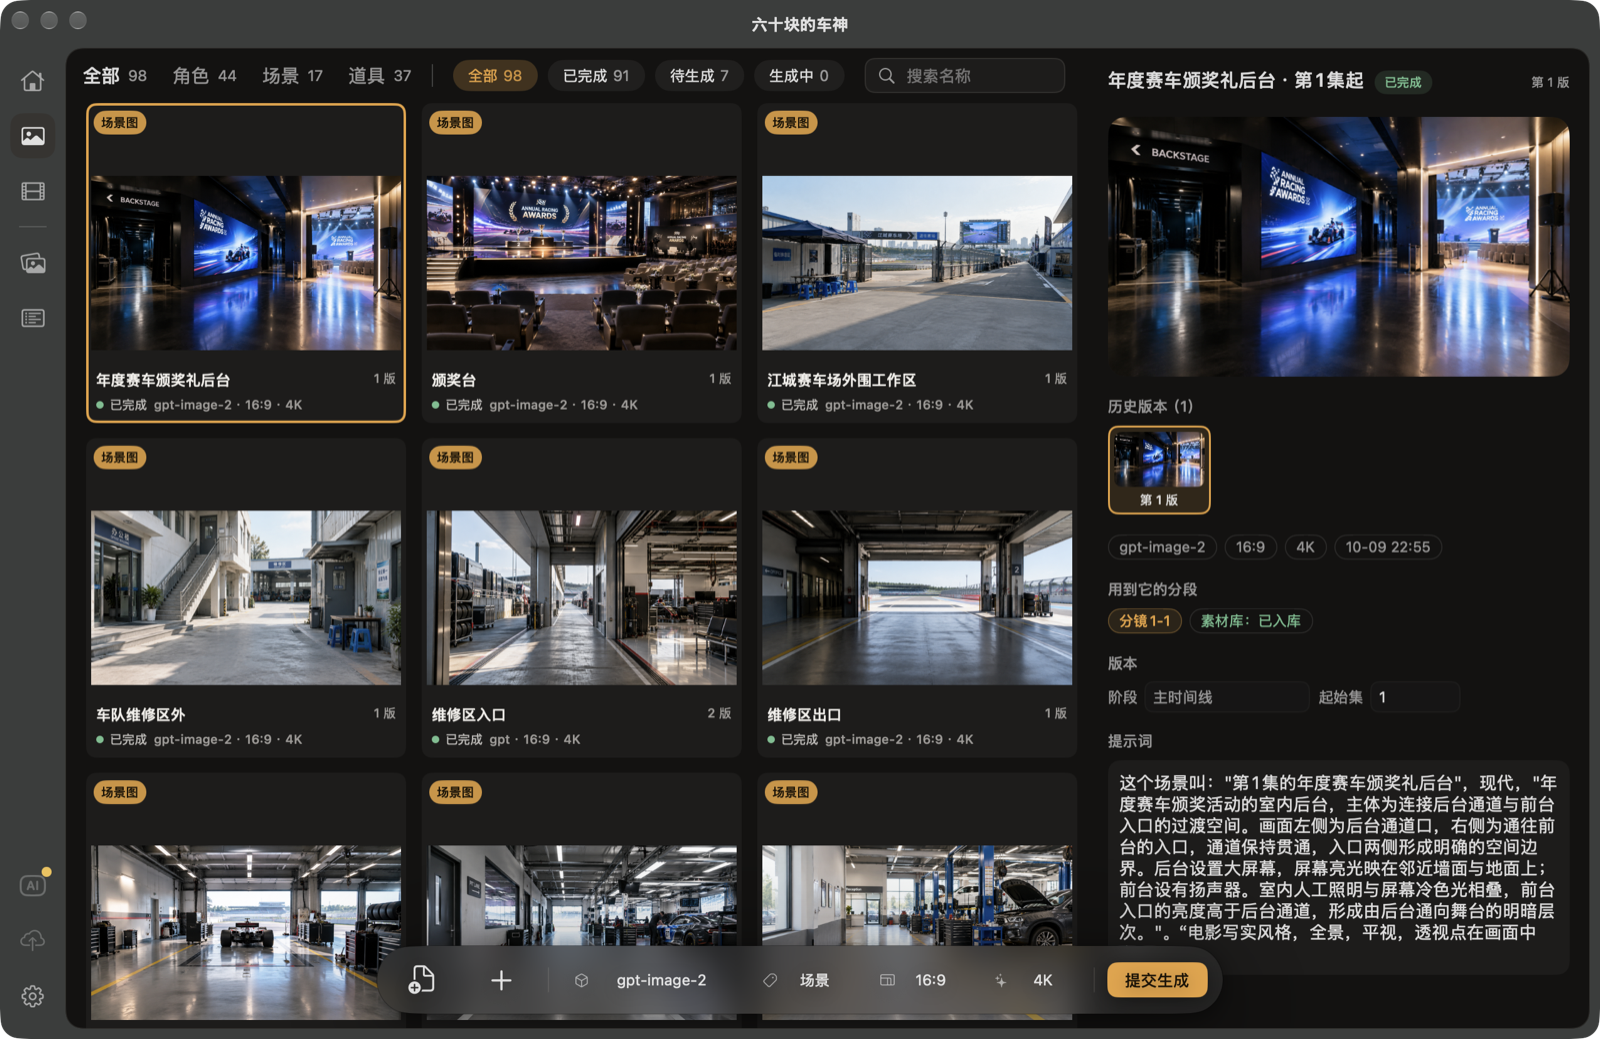
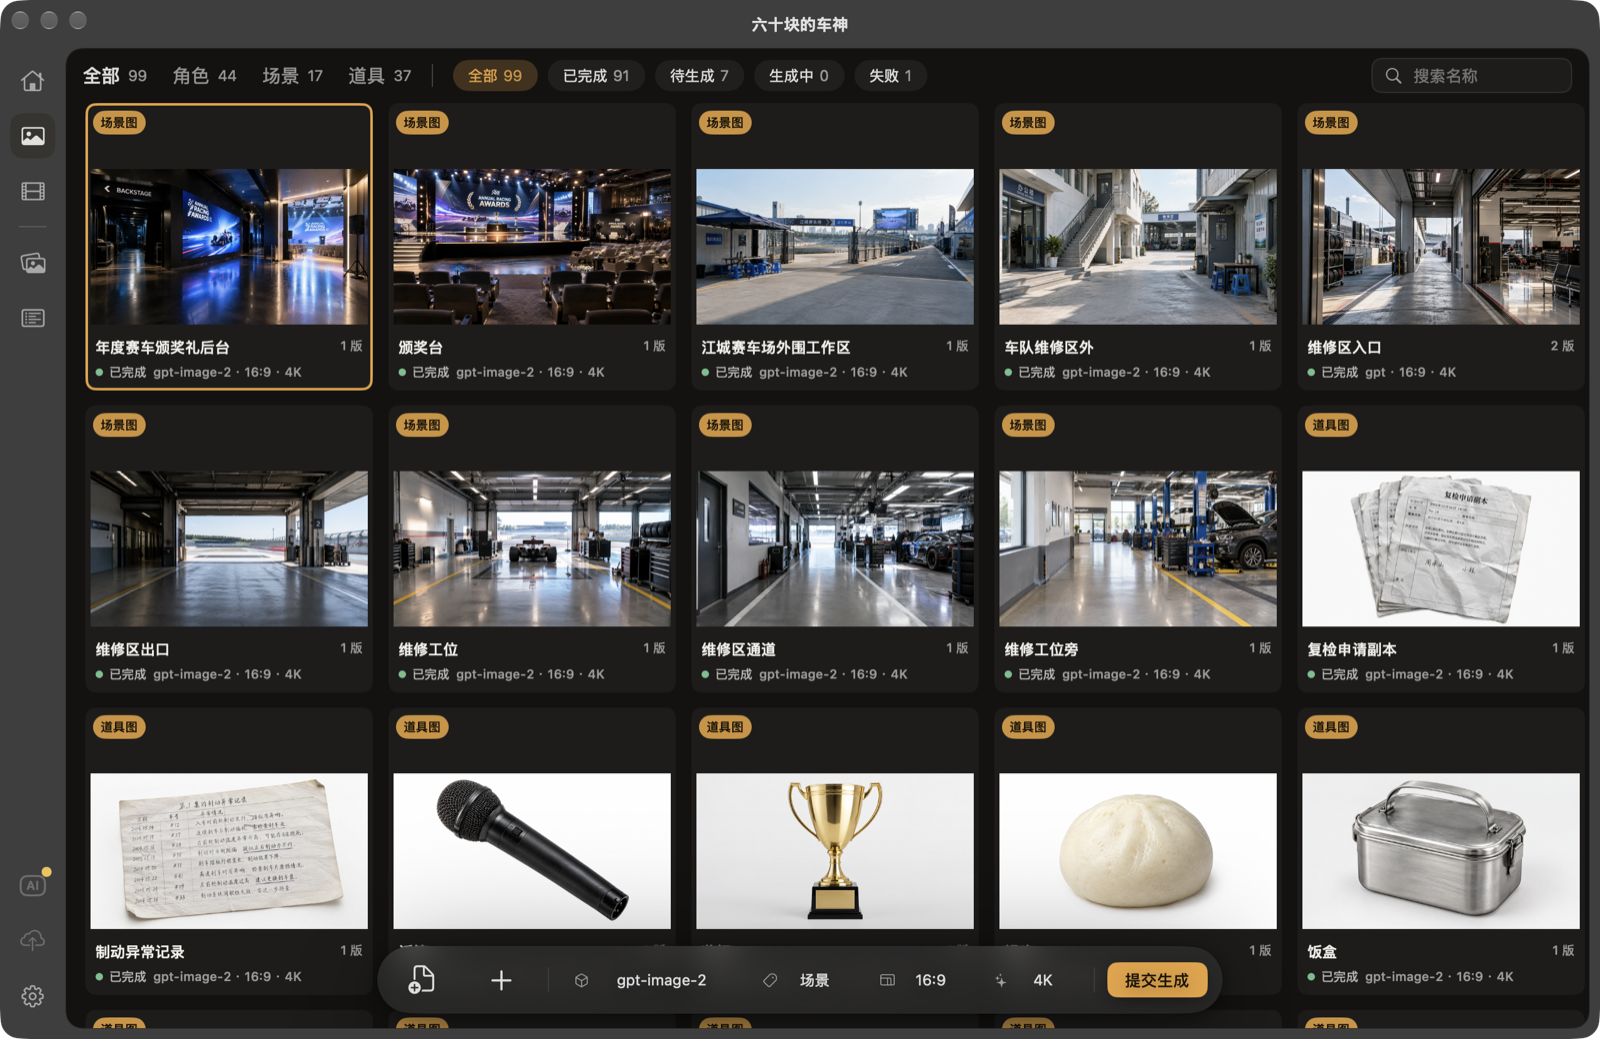
v2.1.58：角色卡绑音色、单击开弹窗去掉右边详情；README 更新截图

diff --git a/README.md b/README.md
@@ -13,8 +13,8 @@ https://github.com/user-attachments/assets/a47bf840-6f4b-4464-ade7-03aff6a31951
 | 段落详情：分镜提示词 + 本段剧情 | 素材卡：角色 / 场景 / 道具 |
 |---|---|
 | ![段落详情](docs/screenshots/segment-detail.png) | ![素材卡](docs/screenshots/image-cards.png) |
-
-![主页](docs/screenshots/home.png)
+| **素材卡编辑：提示词、历史版本、绑定音色** | **主页** |
+| ![素材卡编辑](docs/screenshots/image-editor.png) | ![主页](docs/screenshots/home.png) |
 
 > 截图来自作者用本软件制作的短剧《六十块的车神》等项目。
 
@@ -22,7 +22,7 @@ https://github.com/user-attachments/assets/a47bf840-6f4b-4464-ade7-03aff6a31951
 
 - **剧本流水线**：AI 分集 → 时长分割（如每段 15 / 30 秒）→ 分段命名 → 推理分镜 → 提取素材（角色、场景、道具）。每一步的提示词都能在设置里改。
 - **工作台**：按集、按段看每一段走到了哪一步（待命名、待推理、待出图、待生成视频……），点进某一段可以改提示词、挂素材、看历史版本。
-- **素材与生图**：提取出的素材自动建成生图卡；跨集复用同一素材，提取时会和已有素材对账（沿用 / 新建 / 形态变化 / 待确认），不会重复建卡。
+- **素材与生图**：提取出的素材自动建成生图卡；跨集复用同一素材，提取时会和已有素材对账（沿用 / 新建 / 形态变化 / 待确认），不会重复建卡。单击素材卡就是编辑弹窗：提示词、历史版本、用到它的分段都在里面；角色卡还能绑音色（一段音频或一句文字描述），挂到分镜上时音色跟着进分镜提示词（参考音频要视频渠道支持；开源版自带的 OpenAI / New API 两种渠道不收参考音频，只用文字描述）。
 - **生视频**：每一段带着挂好的参考图（以及参考视频、音频）提交给视频服务商；每次提交都是新的一版，失败的版本也保留，可以改了再交。
 - **服务商接入**：生图、生视频渠道支持 OpenAI 规范和 New API 两种接入规范；文字流程可接 OpenAI 兼容的接口（如 DeepSeek），支持流式接收。
 - **外部智能体接力**：文字流程可以不走软件里的 API，而是把请求放进本机收件目录，由 Codex 等外部智能体回答。配套的自动化技能在 [`skills/xipi-automation`](skills/xipi-automation)。
@@ -106,7 +106,7 @@ swift test
 
 - **Script pipeline**: split the script into episodes → cut each episode into fixed-length segments (e.g. 15 / 30 s) → name segments → infer storyboards → extract assets (characters, scenes, props). Every step's prompt is editable.
 - **Workbench**: see where each segment stands (needs naming, needs storyboard, needs images, needs video…), open a segment to edit its prompt, attach assets, and browse version history.
-- **Assets & images**: extracted assets become image cards; assets are reused across episodes and reconciled on re-extraction (reuse / new / changed form / needs review) instead of being duplicated.
+- **Assets & images**: extracted assets become image cards; assets are reused across episodes and reconciled on re-extraction (reuse / new / changed form / needs review) instead of being duplicated. Clicking a card opens its editor (prompt, version history, where it's used); character cards can carry a voice (an audio clip or a text description) that follows the character into storyboard prompts (reference audio needs a video channel that accepts it; the bundled OpenAI / New API channels don't, so only the text description is used).
 - **Video generation**: each segment is submitted with its reference images (and optional reference video / audio). Every submission is a new version; failed versions are kept and can be edited and resubmitted.
 - **Providers**: image and video channels speak either the OpenAI-style protocol or the New API protocol; text steps work with OpenAI-compatible endpoints (e.g. DeepSeek), with streaming.
 - **External agent bridge**: instead of calling an API, text-pipeline requests can be dropped into a local inbox and answered by an external coding agent such as Codex. See [`skills/xipi-automation`](skills/xipi-automation).
